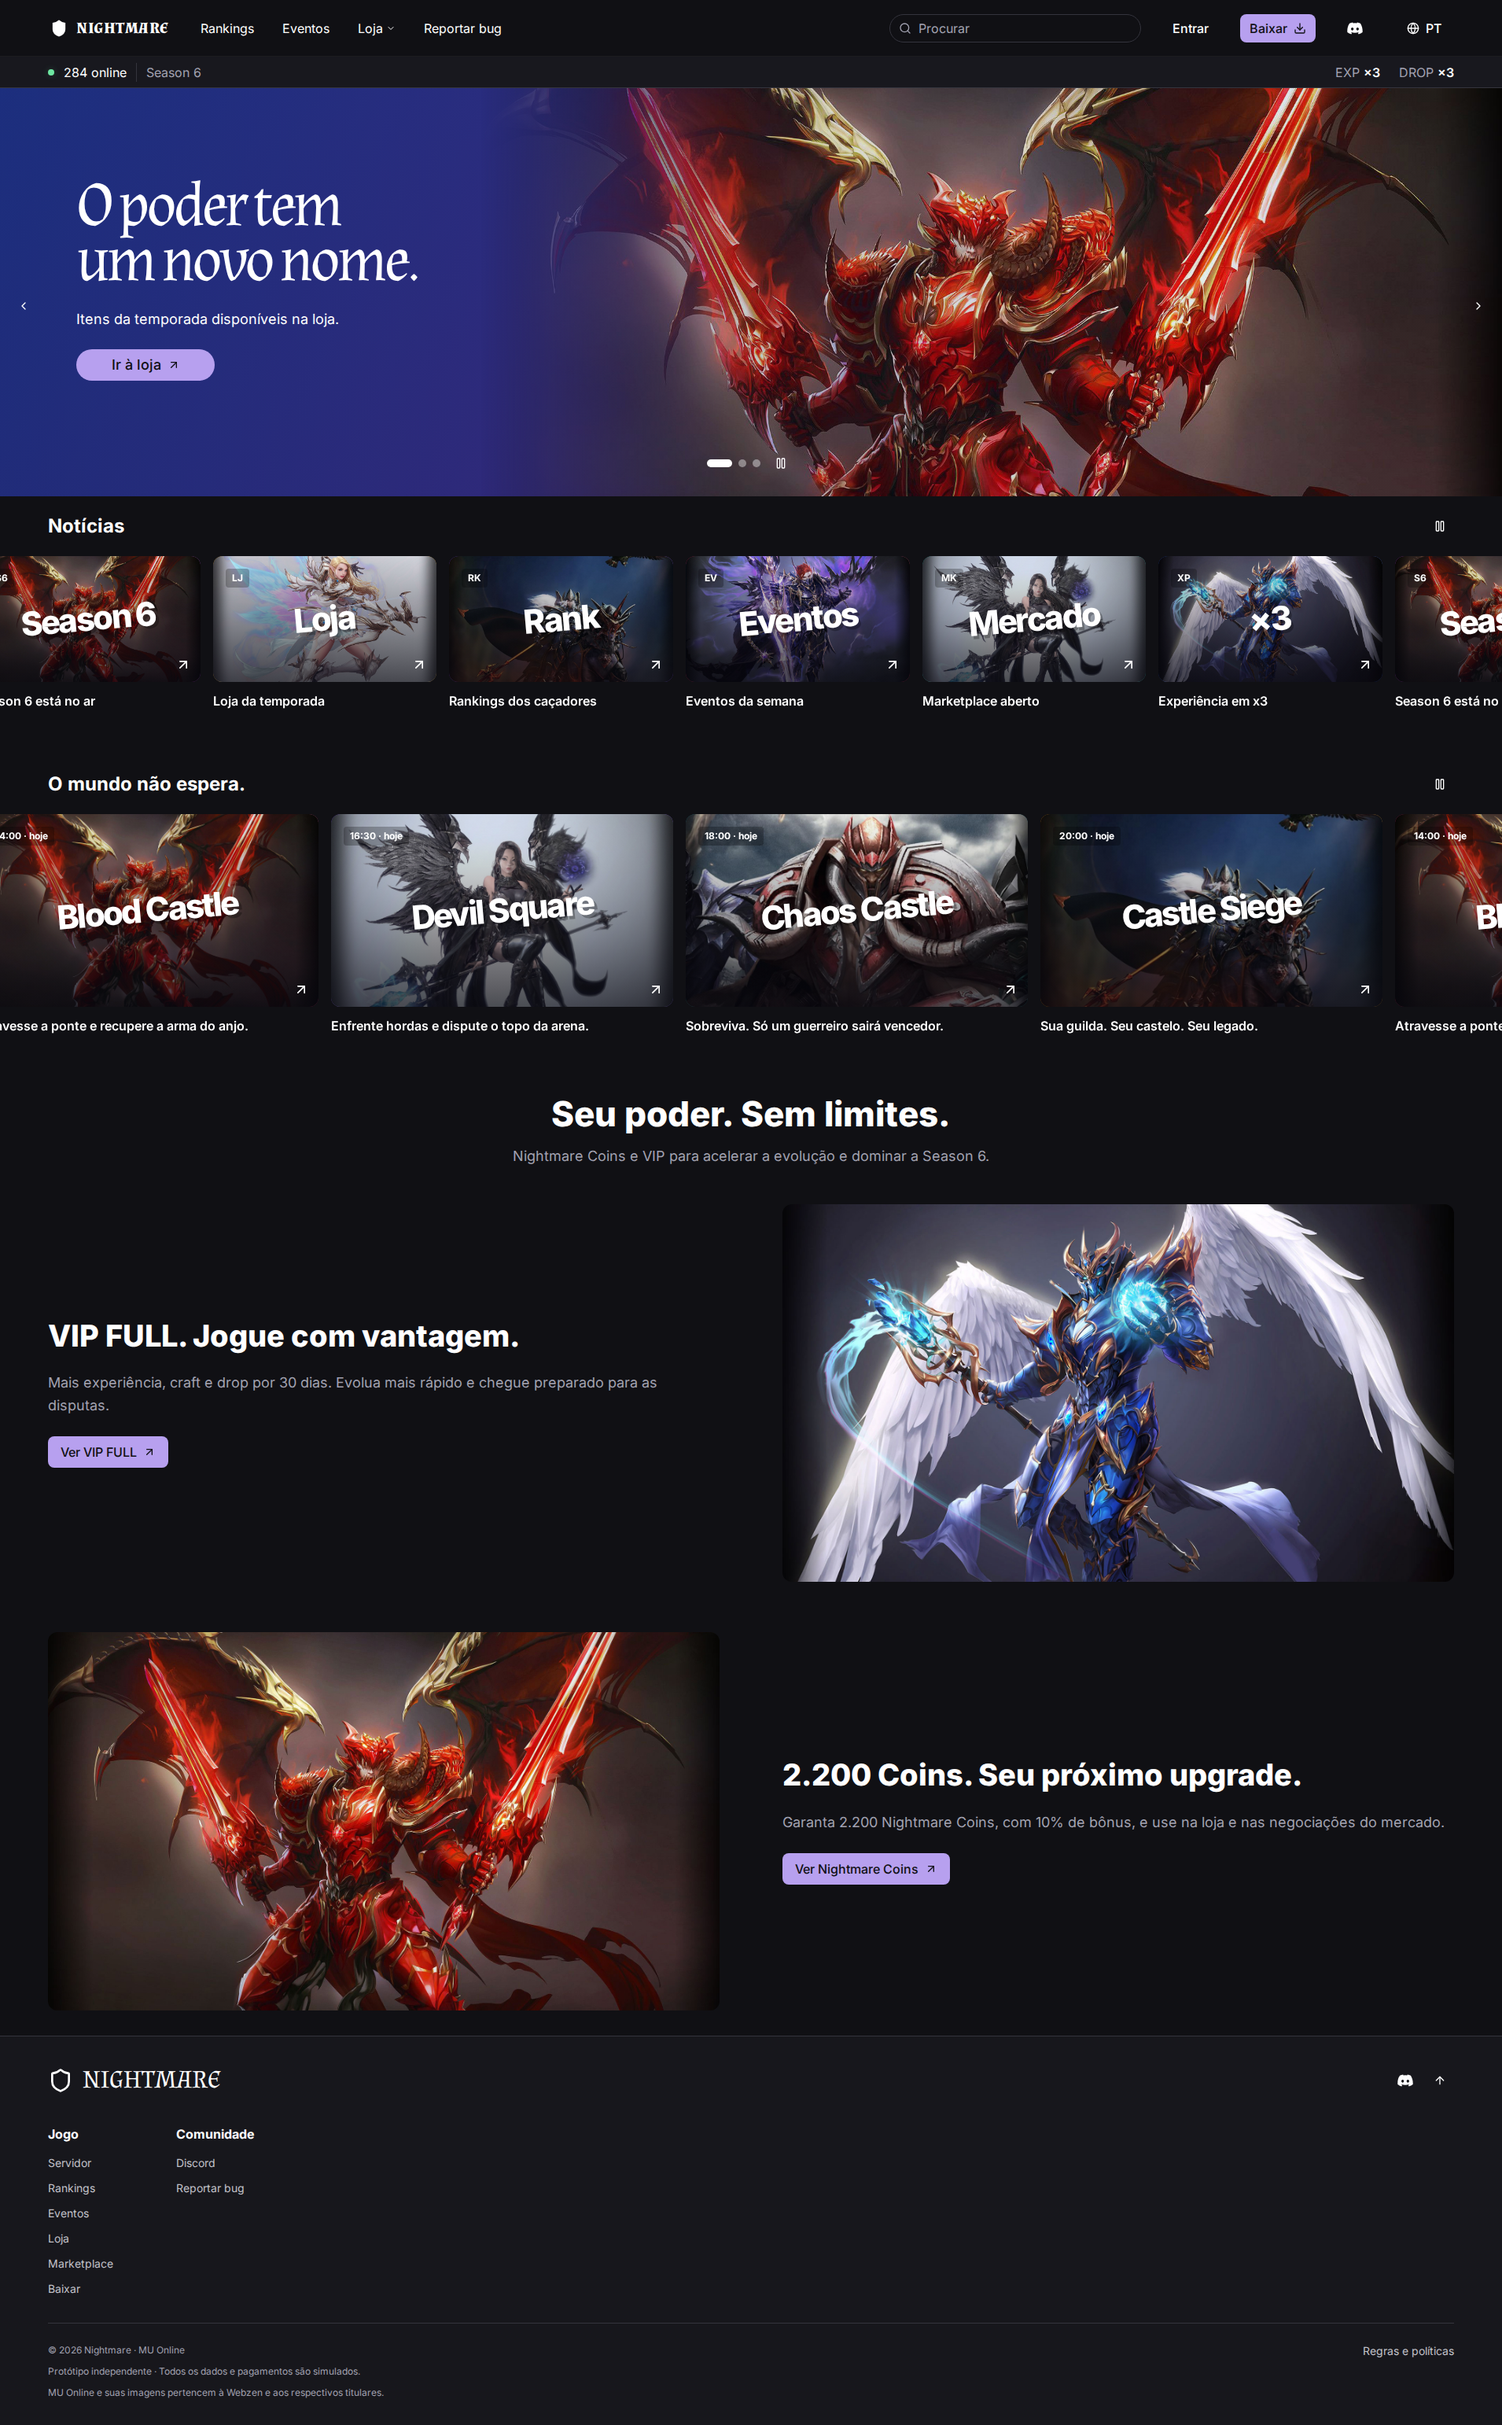
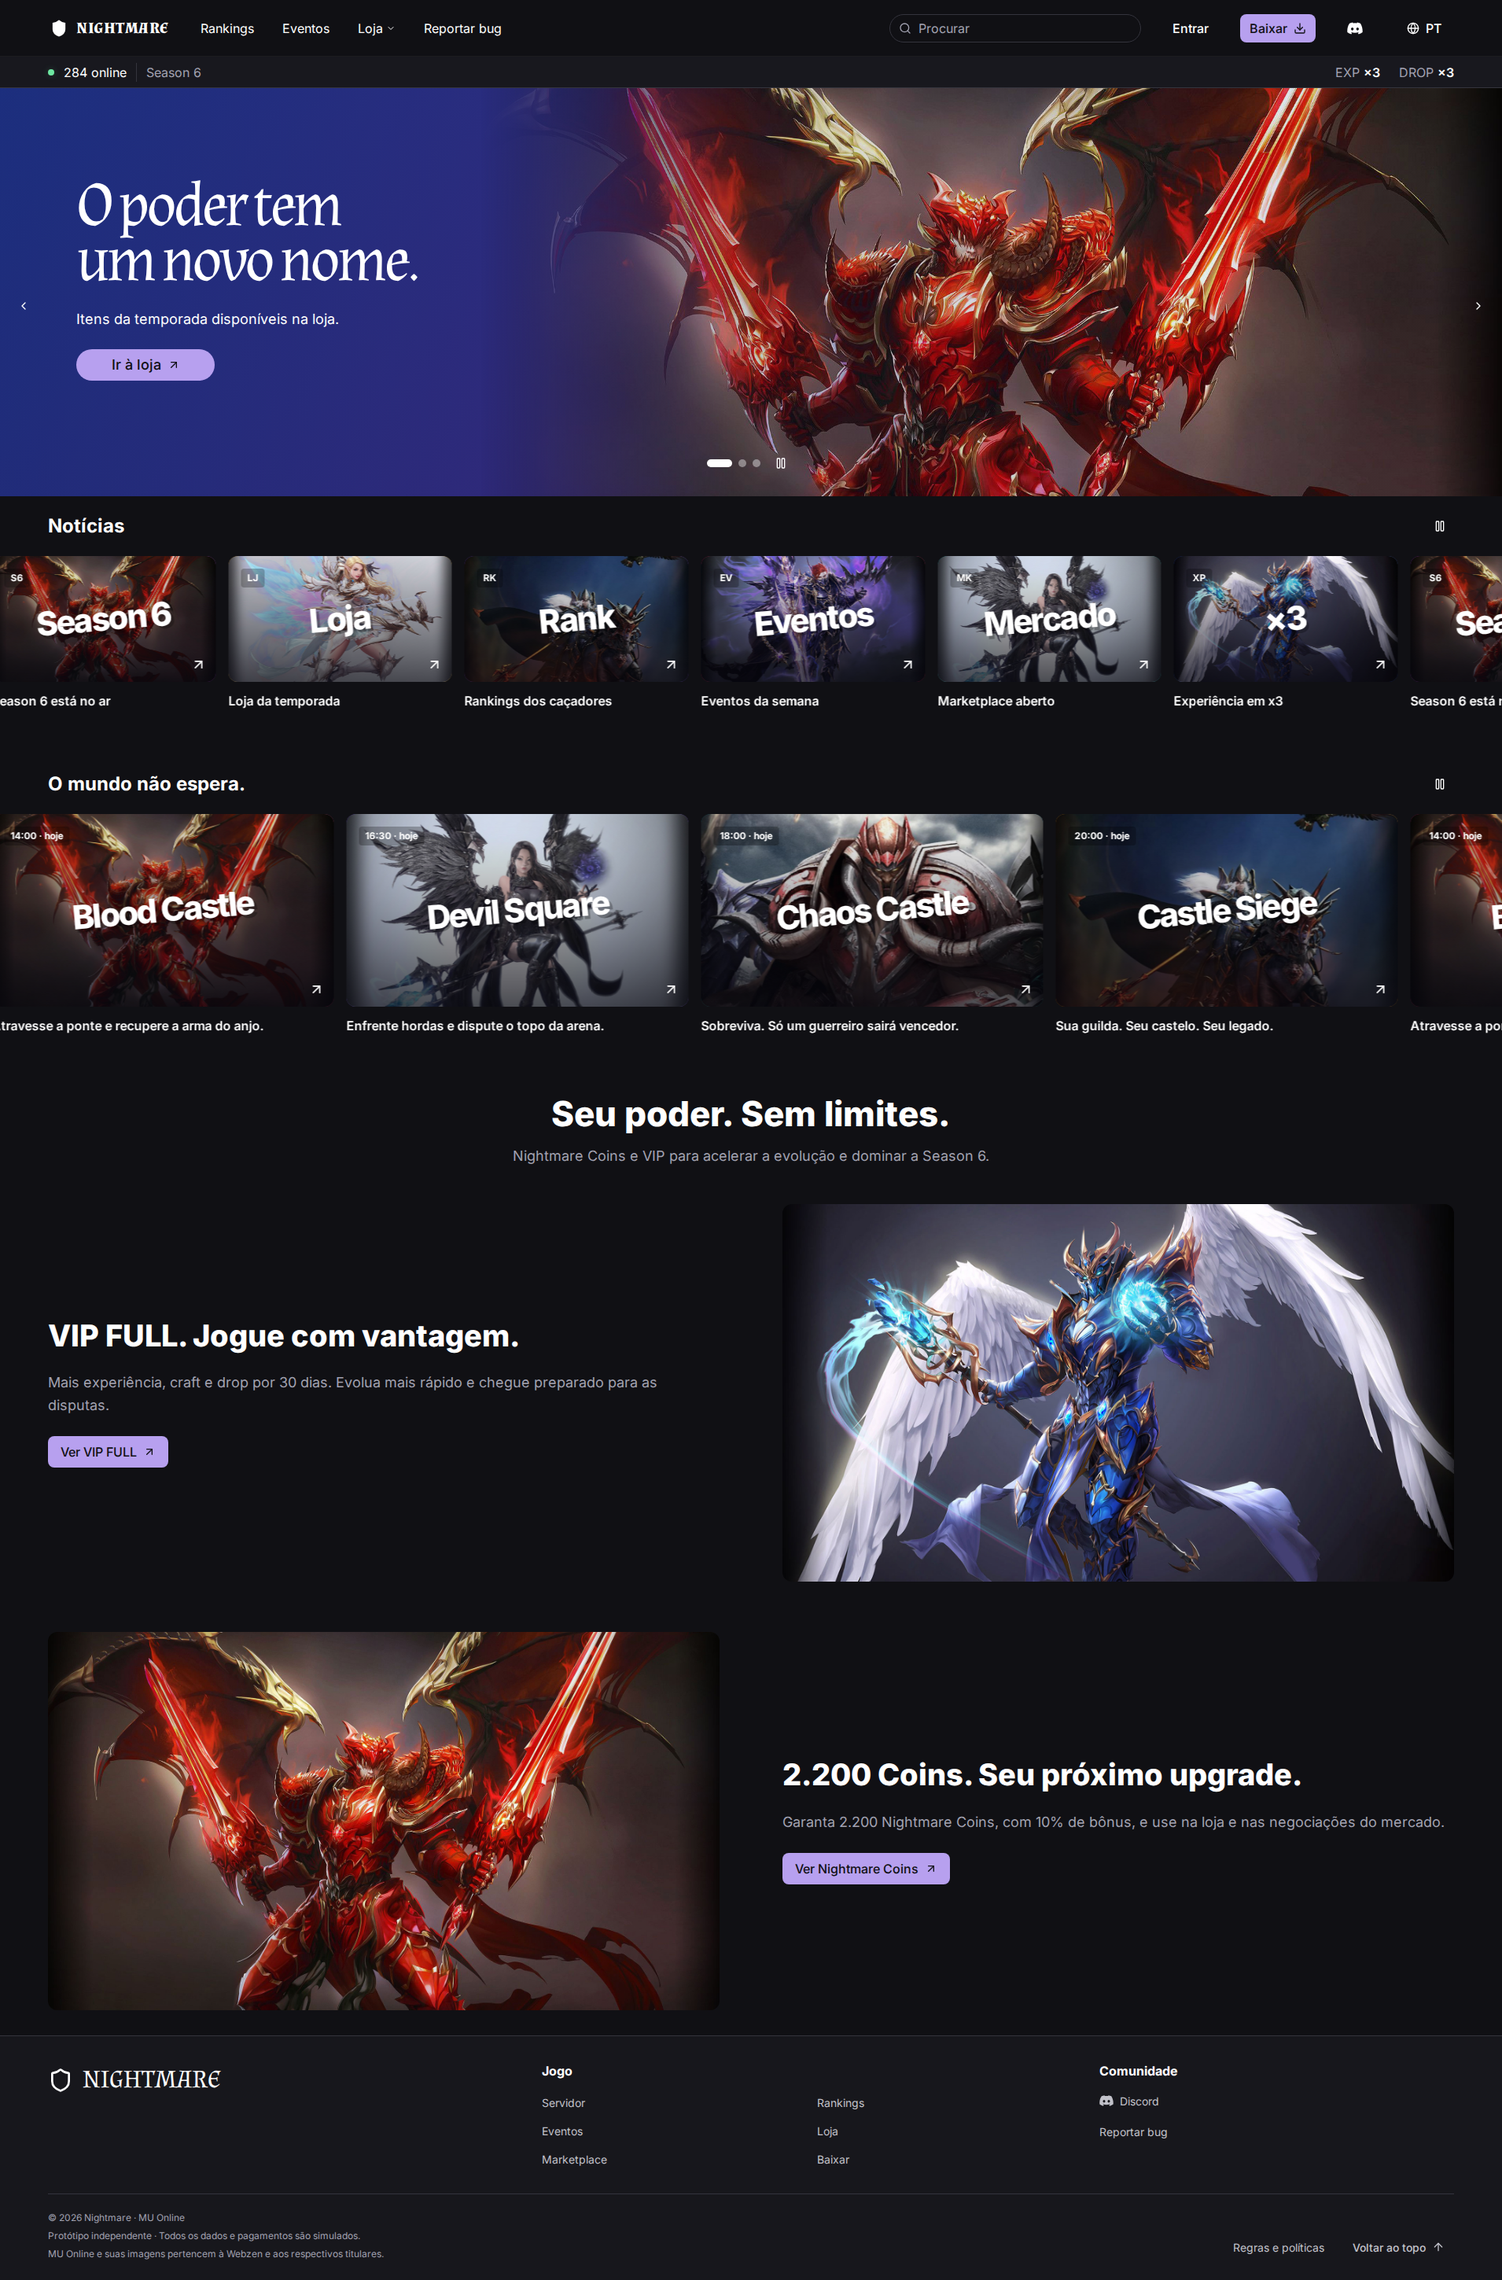
Redistribute footer content and integrate social and back-to-top actions

diff --git a/src/components/layout/Footer.tsx b/src/components/layout/Footer.tsx
@@ -34,47 +34,26 @@ export function Footer() {
           <Shield className="size-8" />
           <span className="brand-font">NIGHTMARE</span>
         </Link>
-        <div className="footer-social">
-          <Button asChild variant="ghost" size="icon">
-            <Link to="/community" aria-label="Comunidade Discord">
-              <DiscordIcon />
-            </Link>
-          </Button>
-          <Button
-            variant="ghost"
-            size="icon"
-            aria-label="Voltar ao topo"
-            onClick={() =>
-              window.scrollTo({
-                top: 0,
-                behavior: matchMedia("(prefers-reduced-motion: reduce)").matches
-                  ? "instant"
-                  : "smooth",
-              })
-            }
-          >
-            <ArrowUp />
-          </Button>
-        </div>
+        <nav className="footer-navigation" aria-label="Rodapé">
+          {groups.map((group) => (
+            <div key={group.title} className="footer-group">
+              <h2>
+                <Translated text={group.title} />
+              </h2>
+              <ul>
+                {group.links.map(([label, to]) => (
+                  <li key={to}>
+                    <Link to={to}>
+                      {label === "Discord" && <DiscordIcon />}
+                      <Translated text={label} />
+                    </Link>
+                  </li>
+                ))}
+              </ul>
+            </div>
+          ))}
+        </nav>
       </div>
-      <nav className="footer-navigation" aria-label="Rodapé">
-        {groups.map((group) => (
-          <div key={group.title} className="footer-group">
-            <h2>
-              <Translated text={group.title} />
-            </h2>
-            <ul>
-              {group.links.map(([label, to]) => (
-                <li key={to}>
-                  <Link to={to}>
-                    <Translated text={label} />
-                  </Link>
-                </li>
-              ))}
-            </ul>
-          </div>
-        ))}
-      </nav>
       <div className="footer-bottom">
         <div className="footer-notice">
           <p>© {currentYear} Nightmare · MU Online</p>
@@ -85,9 +64,26 @@ export function Footer() {
             <Translated text="MU Online e suas imagens pertencem à Webzen e aos respectivos titulares." />
           </p>
         </div>
-        <Link to="/rules">
-          <Translated text="Regras e políticas" />
-        </Link>
+        <div className="footer-utilities">
+          <Link to="/rules">
+            <Translated text="Regras e políticas" />
+          </Link>
+          <Button
+            variant="ghost"
+            className="footer-top-button"
+            onClick={() =>
+              window.scrollTo({
+                top: 0,
+                behavior: matchMedia("(prefers-reduced-motion: reduce)").matches
+                  ? "instant"
+                  : "smooth",
+              })
+            }
+          >
+            <Translated text="Voltar ao topo" />
+            <ArrowUp />
+          </Button>
+        </div>
       </div>
     </footer>
   );

diff --git a/src/components/layout/footer.css b/src/components/layout/footer.css
@@ -7,81 +7,120 @@
   flex: 1;
 }
 .site-footer {
-  padding: 32px var(--layout-gutter);
+  padding: 32px var(--layout-gutter) 24px;
   background: #17171c;
   border-top: 1px solid var(--color-border);
 }
 .footer-top {
-  display: flex;
-  flex-wrap: wrap;
-  align-items: center;
-  justify-content: space-between;
-  gap: 16px;
+  display: grid;
+  grid-template-columns: minmax(0, 1fr) minmax(0, 2fr);
+  gap: 48px;
+  align-items: start;
 }
 .footer-brand {
   display: inline-flex;
+  width: fit-content;
   align-items: center;
   gap: 12px;
   font-size: 32px;
 }
 .footer-brand svg {
   color: var(--foreground);
-}
-.footer-social {
-  display: flex;
-  align-items: center;
-  gap: 8px;
+  flex-shrink: 0;
 }
 .footer-navigation {
-  display: flex;
-  flex-wrap: wrap;
-  gap: 32px 80px;
-  padding-block: 32px;
+  display: grid;
+  grid-template-columns: minmax(0, 1.5fr) minmax(0, 1fr);
+  gap: 32px;
 }
 .footer-group h2 {
-  margin-bottom: 12px;
+  margin-bottom: 16px;
   font-size: 16px;
   font-weight: 700;
 }
 .footer-group ul {
   display: grid;
-  gap: 8px;
+  grid-template-columns: repeat(2, minmax(0, 1fr));
+  gap: 12px 24px;
+}
+.footer-group:last-child ul {
+  grid-template-columns: 1fr;
 }
 .footer-group a {
+  display: inline-flex;
+  align-items: center;
+  gap: 8px;
   font-size: 14px;
   color: #c2c2ca;
 }
+.footer-group a svg {
+  width: 18px;
+  height: 18px;
+}
 .footer-group a:hover,
-.footer-bottom a:hover {
+.footer-utilities > a:hover {
   color: var(--foreground);
   text-decoration: underline;
   text-underline-offset: 4px;
 }
 .footer-bottom {
   display: flex;
-  flex-wrap: wrap;
-  align-items: flex-start;
+  align-items: flex-end;
   justify-content: space-between;
-  gap: 24px;
-  padding-top: 24px;
+  gap: 32px;
+  margin-top: 32px;
+  padding-top: 20px;
   border-top: 1px solid var(--color-border);
 }
 .footer-notice {
   display: grid;
-  gap: 8px;
+  gap: 4px;
   color: var(--color-muted-foreground);
   font-size: 12px;
   line-height: 1.6;
 }
-.footer-bottom > a {
+.footer-utilities {
+  display: flex;
+  flex-shrink: 0;
+  align-items: center;
+  gap: 24px;
+}
+.footer-utilities > a {
   font-size: 14px;
   color: #c2c2ca;
+}
+.footer-utilities .footer-top-button {
+  font-size: 14px;
+  padding: 8px 12px;
+  color: #c2c2ca;
+}
+@media (max-width: 1000px) {
+  .footer-top {
+    grid-template-columns: 1fr;
+    gap: 24px;
+  }
+  .footer-navigation {
+    grid-template-columns: minmax(0, 1.5fr) minmax(0, 1fr);
+  }
+  .footer-bottom {
+    align-items: flex-start;
+    flex-direction: column;
+    gap: 16px;
+  }
 }
 @media (max-width: 640px) {
   .footer-brand {
     font-size: 24px;
   }
   .footer-navigation {
-    column-gap: 48px;
+    grid-template-columns: repeat(2, minmax(0, 1fr));
+    gap: 24px;
+  }
+  .footer-group ul {
+    grid-template-columns: 1fr;
+  }
+  .footer-utilities {
+    flex-wrap: wrap;
+    gap: 12px;
   }
 }

diff --git a/docs/validation.md b/docs/validation.md
@@ -54,3 +54,7 @@ Componentes compartilhados SectionIntro, ImagePromotion e InfiniteConveyor. Home
 Blog interno com feed, busca/categoria, artigos com capa e parágrafos, publicação/edição pela conta demo (dono), curtidas únicas por usuário, comentários e exclusão pelo autor/dono, compartilhamento e persistência local. Visitantes leem; jogadores comuns interagem sem controles editoriais. Não há backend ou permissão real de administrador.
 
 Quinze testes existentes aprovados e três testes novos aprovados após corrigir a consulta do PIN no teste. Verificados promos, loop de eventos, publicação/edição, curtidas/comentários após reload e leitor sem permissão editorial. Build e lint aprovados. Layout sem overflow em 320, 390 e 1440 px.
+
+## Distribuição do footer — 05/10/2026
+
+Marca, navegação do jogo em duas colunas e comunidade distribuídas horizontalmente no desktop. Discord integrado ao link correspondente. Voltar ao topo acompanhado de texto junto às políticas na faixa inferior. Layout adapta os grupos no mobile sem altura fixa. Sem overflow em 320, 390, 1440 e 1910 px. Build, lint e quatro testes de footer/navegação aprovados.
